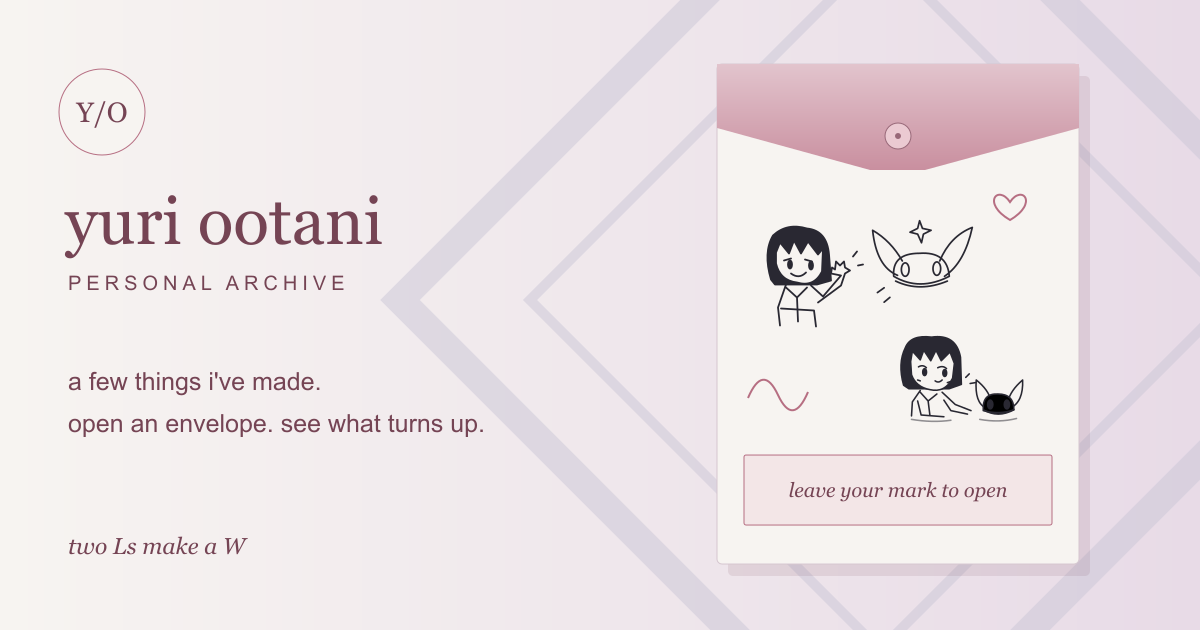
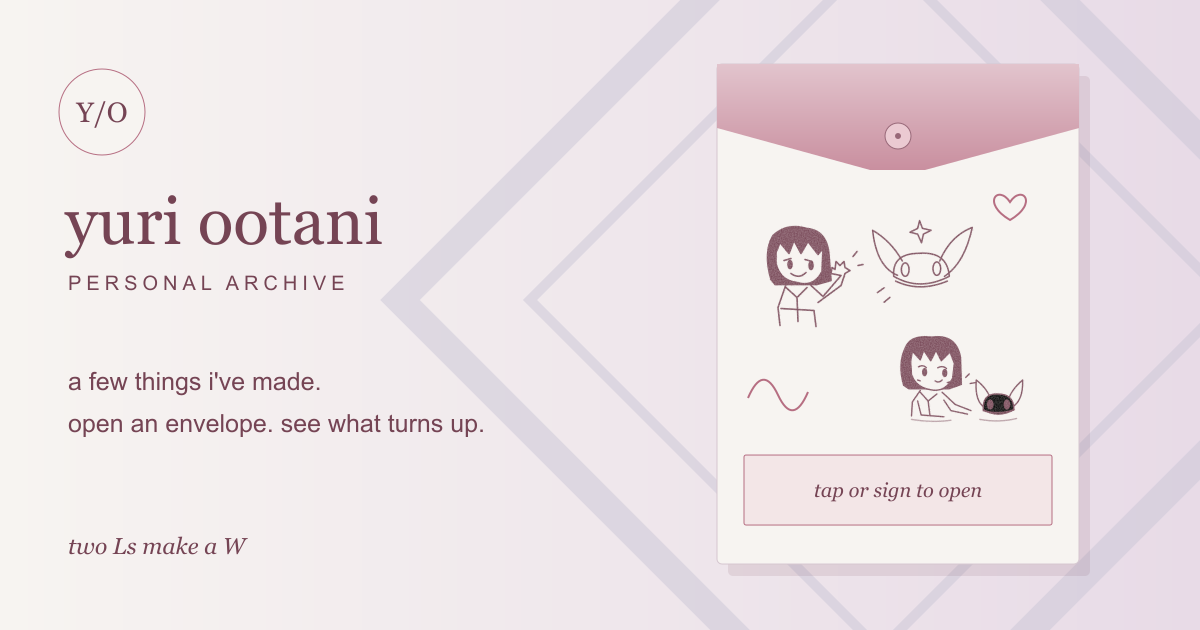
Soften envelope doodles with plum marker texture

Changed region(s): [[0.6167, 0.3619, 0.8017, 0.5127], [0.74, 0.5127, 0.8633, 0.6635], [0.6475, 0.754, 0.8325, 0.8143]]

diff --git a/src/components/EnvelopeArtwork.jsx b/src/components/EnvelopeArtwork.jsx
@@ -1,15 +1,17 @@
 import { useId } from 'react'
 import YuriDoodle from './YuriDoodle'
+import MarkerTexture from './MarkerTexture'
 
 export function EnvelopeDoodles() {
+  const inkId = useId().replace(/:/g, '') + '-marker'
   return <div className="envelope-doodles" aria-label="Little doodles of Yuri waving and Borg playing">
-    <svg className="doodle-yuri" viewBox="0 0 120 125" role="img" aria-label="Yuri waving hello"><g stroke="currentColor" strokeWidth="1.8" strokeLinecap="round" strokeLinejoin="round">
+    <svg className="doodle-yuri" viewBox="0 0 120 125" role="img" aria-label="Yuri waving hello"><MarkerTexture id={inkId}/><g filter={`url(#${inkId})`} stroke="currentColor" strokeWidth="1.6" strokeLinecap="round" strokeLinejoin="round">
       <path fill="currentColor" d="M25 67Q17 40 27 23Q41 10 61 16Q81 18 83 42L85 68L71 72L29 72Z"/>
       <path fill="var(--ivory)" d="M30 40L34 30L43 41L48 28L55 41L62 29L72 42L77 36L76 59Q68 75 51 70Q34 68 30 51Z"/>
       <path fill="none" d="M38 48l7-2M59 47l7 2M45 61q8 6 15-1M40 72L32 95L34 113M65 73L77 84L95 63M72 90L95 73M40 75L51 85L61 75M51 85L52 109M35 96L68 98L70 114M95 73L99 61L104 58L99 55L98 49L94 53L90 49L89 57L86 55L85 61L95 63M107 44l4-5M112 53l5-1"/>
       <ellipse cx="44" cy="52" rx="2" ry="4" fill="currentColor"/><ellipse cx="65" cy="53" rx="2" ry="4" fill="currentColor"/>
     </g></svg>
-    <svg className="doodle-borg-flying" viewBox="0 0 120 110" role="img" aria-label="Borg fluttering around a star"><g fill="none" stroke="currentColor" strokeWidth="1.8" strokeLinecap="round" strokeLinejoin="round">
+    <svg className="doodle-borg-flying" viewBox="0 0 120 110" role="img" aria-label="Borg fluttering around a star"><g filter={`url(#${inkId})`} fill="none" stroke="currentColor" strokeWidth="1.6" strokeLinecap="round" strokeLinejoin="round">
       <path d="M35 71Q13 62 9 24Q28 35 40 56M84 72Q105 58 113 21Q90 30 79 56M31 72Q29 48 58 48Q87 46 89 72Q58 88 31 72ZM33 77Q58 89 87 77"/>
       <ellipse cx="43" cy="65" rx="4" ry="7"/><ellipse cx="76" cy="64" rx="4" ry="7"/><path d="M21 84l-7 5M27 94l-6 5M58 14l3 8 9 2-8 4-2 9-4-9-8-2 8-4Z"/>
     </g></svg>
@@ -52,5 +54,6 @@ export function SleepingBorg() {
       <path d="M36 59Q15 56 9 38Q28 35 41 47M85 57Q109 54 117 32Q96 32 80 46M32 58Q33 32 60 33Q89 32 91 58Q61 71 32 58ZM43 50q5 5 10 0M69 49q5 5 10-1M22 71q36 4 81-1M92 20h8l-8 8h8M109 7h11l-11 11h11"/>
     </g></svg>
 }
+
 
 

diff --git a/src/components/YuriDoodle.jsx b/src/components/YuriDoodle.jsx
@@ -1,6 +1,10 @@
+import { useId } from 'react'
+import MarkerTexture from './MarkerTexture'
+
 export default function YuriDoodle({ className = '' }) {
+  const inkId = useId().replace(/:/g, '') + '-marker'
   return <svg className={className} viewBox="0 0 180 120" role="img" aria-label="Yuri-inspired pen doodle looking down at a little Borg">
-    <g stroke="currentColor" strokeWidth="1.8" strokeLinecap="round" strokeLinejoin="round">
+    <MarkerTexture id={inkId}/><g filter={`url(#${inkId})`} stroke="currentColor" strokeWidth="1.6" strokeLinecap="round" strokeLinejoin="round">
       <path fill="currentColor" d="M29 70Q22 45 31 27Q37 12 61 15Q89 11 94 38L95 69L81 74L35 74Z"/>
       <path fill="var(--ivory)" d="M37 43L39 31L48 41L52 30L60 42L66 30L72 42L82 32L87 45L85 62Q76 79 59 75Q43 72 38 58Z"/>
       <path fill="none" d="M46 49q5-3 9 1M68 50q6-3 10 1"/>
@@ -17,3 +21,4 @@ export default function YuriDoodle({ className = '' }) {
     </g>
   </svg>
 }
+

diff --git a/src/components/MarkerTexture.jsx b/src/components/MarkerTexture.jsx
@@ -1,0 +1,9 @@
+// Static paper grain: soft marker edges without an animated filter or bitmap.
+export default function MarkerTexture({ id }) {
+  return <defs><filter id={id} x="-5%" y="-5%" width="110%" height="110%" colorInterpolationFilters="sRGB">
+    <feTurbulence type="fractalNoise" baseFrequency=".7" numOctaves="2" seed="9" result="grain"/>
+    <feDisplacementMap in="SourceGraphic" in2="grain" scale=".45" xChannelSelector="R" yChannelSelector="G" result="ink"/>
+    <feColorMatrix in="grain" type="matrix" values="0 0 0 0 0  0 0 0 0 0  0 0 0 0 0  0 0 0 .32 .68" result="paper"/>
+    <feComposite in="ink" in2="paper" operator="in"/>
+  </filter></defs>
+}

diff --git a/src/yuri-theme.css b/src/yuri-theme.css
@@ -263,3 +263,6 @@ button.header-seal { background:transparent;padding:0;cursor:pointer; }
 @keyframes signature-cue{0%,100%{opacity:.9}50%{opacity:.55}}
 @keyframes signature-trace{0%{stroke-dashoffset:100;opacity:0}20%{opacity:.75}65%,100%{stroke-dashoffset:0;opacity:.4}}
 @media(max-width:700px){.header-seal .monogram{width:48px;height:40px}}
+
+/* Plum marker ink keeps the character sketches in the stationery palette. */
+.envelope-doodles,.front-doodle,.about-art .doodle-borg-sleeping{color:var(--deep-rose)}
